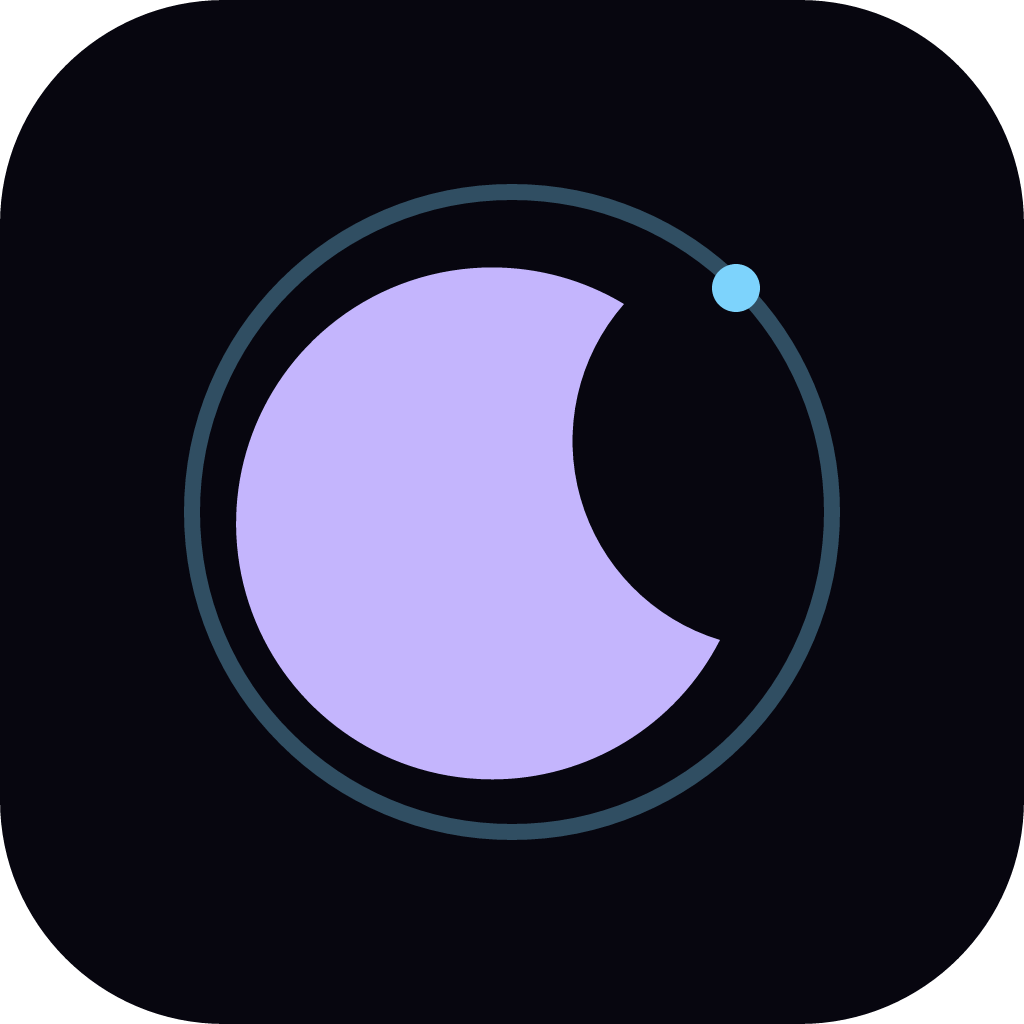
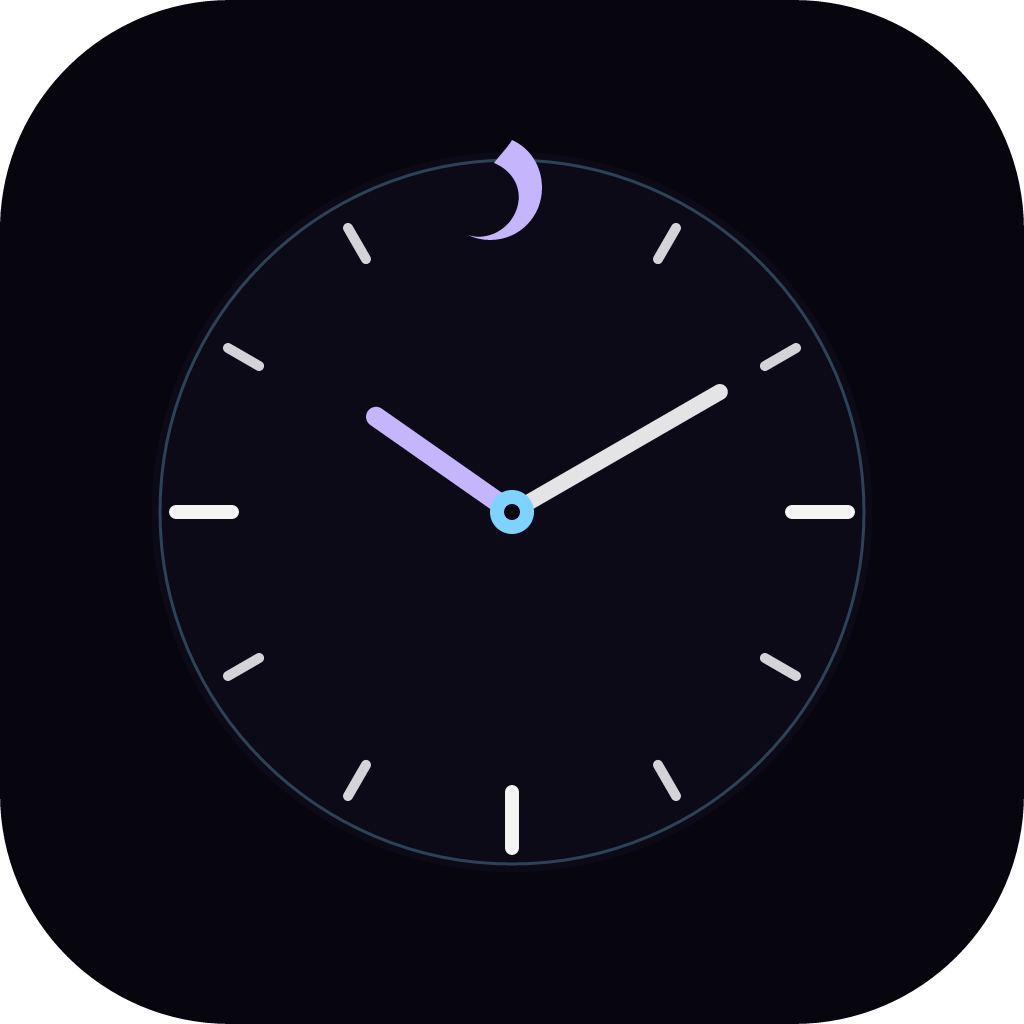
Make Circadia reopen from the Dock with a clock mark
Closing the window now hides instead of killing the process. npm run dock installs Circadia.app in ~/Applications so quit-and-reopen works. Dock icon is a night clock at 10:10 with a moon at 12.

diff --git a/src/components/mark.tsx b/src/components/mark.tsx
@@ -6,12 +6,23 @@ export function Mark({ className = "size-16" }: { className?: string }) {
       aria-hidden="true"
       fill="none"
     >
-      <circle cx="64" cy="64" r="46" stroke="rgba(125,211,252,0.28)" strokeWidth="1.5" />
+      <circle cx="64" cy="64" r="46" stroke="rgba(125,211,252,0.32)" strokeWidth="1.5" />
+      <g transform="translate(64 64)" stroke="rgba(228,228,231,0.7)" strokeLinecap="round">
+        <line y1="-40" y2="-34" strokeWidth="1.5" transform="rotate(90)" />
+        <line y1="-40" y2="-34" strokeWidth="1.5" transform="rotate(180)" />
+        <line y1="-40" y2="-34" strokeWidth="1.5" transform="rotate(270)" />
+      </g>
       <path
-        d="M78 36a36 36 0 1 0 14 48 30 30 0 0 1-14-48z"
+        transform="translate(64 22)"
+        d="M0-4c2.4 1.1 4 3.4 4 6.2 0 3.6-2.9 6.8-6.8 6.8-1 0-2-.2-2.9-.6 2.4.8 5.2-.5 6.3-3.1 1.1-2.6-.3-5.2-2.9-6.3.8-1 1.8-2.1 2.3-3z"
         fill="#c4b5fd"
       />
-      <circle cx="96" cy="34" r="3.5" fill="#7dd3fc" />
+      <g transform="translate(64 64)">
+        <rect x="-1.1" y="-32" width="2.2" height="35" rx="1.1" fill="#e4e4e7" transform="rotate(60)" />
+        <rect x="-1.5" y="-23" width="3" height="26" rx="1.5" fill="#c4b5fd" transform="rotate(305)" />
+        <circle r="3.4" fill="#7dd3fc" />
+        <circle r="1.2" fill="#07060f" />
+      </g>
     </svg>
   );
 }

diff --git a/README.md b/README.md
@@ -6,26 +6,25 @@ Circadia is local-first. Profile, mornings, dreams, and chat live on this comput
 
 ## Put it on the Dock (Mac)
 
-The Cursor preview is a website. Finder will not show Circadia until you run the Mac app **on your Mac**.
+`npm run app` is a **session**. Closing the window used to quit that session, so the leftover Dock icon had nothing to reopen. That is fixed in two layers:
 
-From this repo:
+1. The red traffic-light **hides** Circadia. Click the Dock icon to bring it back. **Cmd+Q** is a real quit.
+2. Install a real app you can reopen after quit:
 
 ```bash
+cd rest-ai
+git pull
 npm install
-npm run app
+npm run dock
 ```
 
-A Circadia window opens. It appears in the Dock while it is running. **Right-click the icon → Options → Keep in Dock.**
+That writes `~/Applications/Circadia.app` and opens it. Drag **that** icon to the Dock. Remove any old generic Electron icon first (right-click → Options → Remove from Dock).
 
-To get a real `Circadia.app` you can drag into **Applications** (and from there onto the Dock), run this **on your Mac** — not on a Linux cloud box:
+First launch: if macOS says the app is from an unidentified developer, right-click Circadia → **Open**.
 
-```bash
-npm run dist
-```
+Do not Keep-in-Dock the window that came from `npm run app`. That icon is Electron, not Circadia.
 
-Then open `dist/mac/Circadia.app` (Apple Silicon) or `dist/mac-arm64/Circadia.app`. First open: right-click the app → Open. It is unsigned until we pay Apple for a developer id.
-
-Testers you pay: dish the `.app` (or this repo + `npm run app`). Study packs stay on **their** Mac unless you set `STUDY_INGEST_URL` to a host you control, or they Download JSON in You and send you the file.
+Testers you pay: dish `~/Applications/Circadia.app` after `npm run dock`. Study packs stay on **their** Mac unless you set `STUDY_INGEST_URL` to a host you control, or they Download JSON in You and send you the file.
 
 ## What you do
 

diff --git a/docs/BLUEPRINT.md b/docs/BLUEPRINT.md
@@ -133,6 +133,7 @@ A remote LLM may *narrate* these notes later, behind an explicit key. It must no
 **Notifications:** Notification API, permission only from a tap (intake / You). Honest limit: browsers ping unreliably in the background. The countdown is the reliable gate. Native push is the Capacitor milestone.
 
 ```
+electron/         Mac window (main process, preload, icon)
 src/lib/          engine (pure, tested) — advisor, chat, research, corpus, study
 src/context/      CircadiaProvider, persistence, study send
 src/components/   cover, intake, study gate, Tonight, interview, wind-down, You
